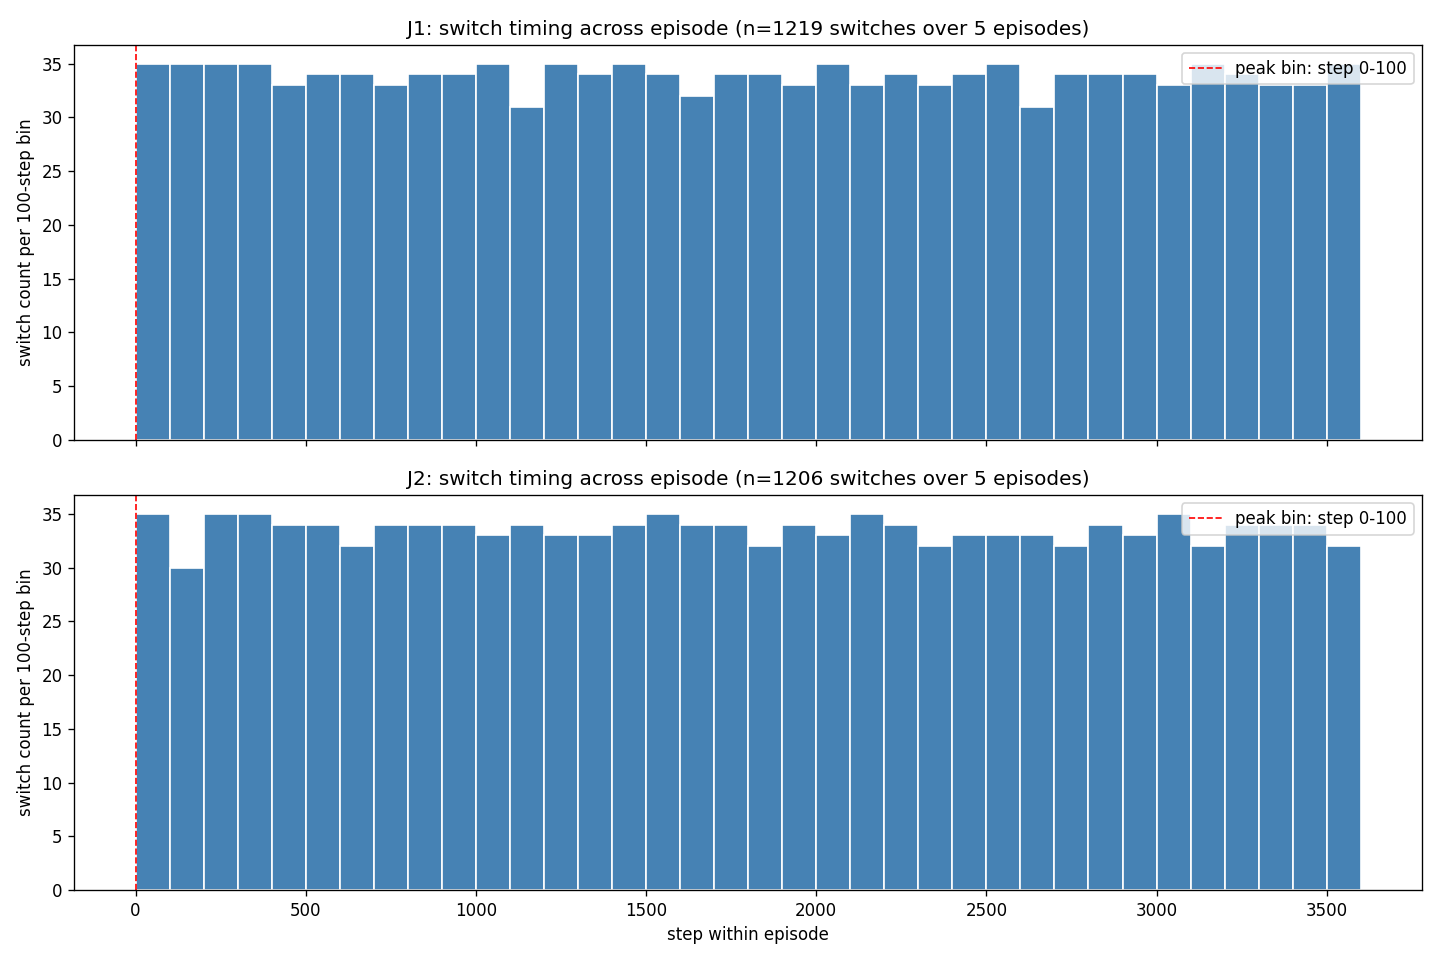
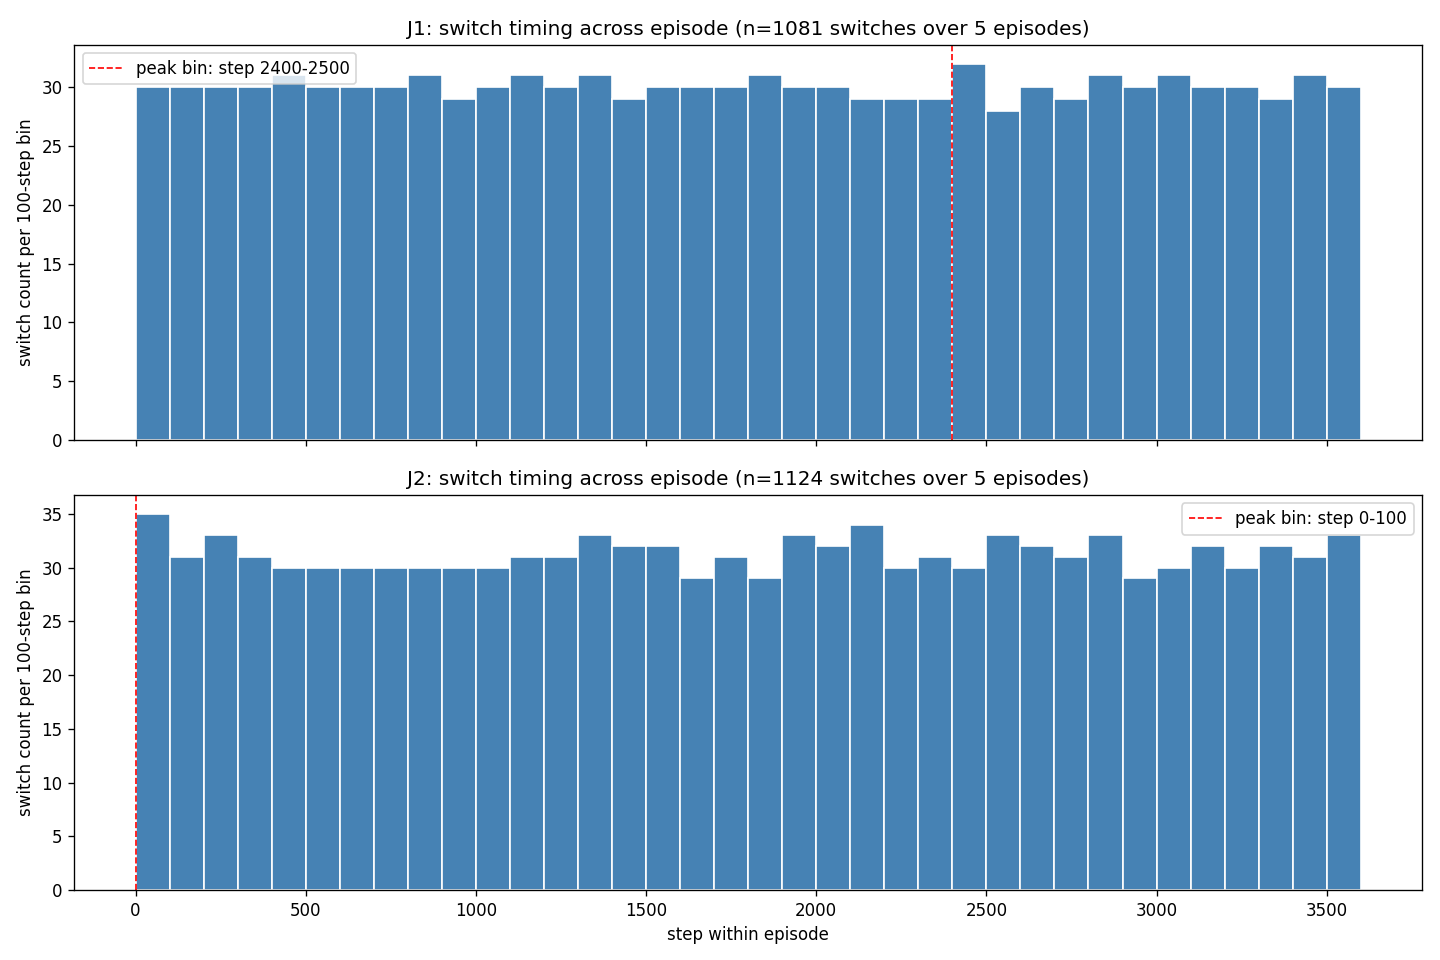
Wrong model

diff --git a/PPO_SUMO/test.py b/PPO_SUMO/test.py
@@ -8,11 +8,12 @@ from stable_baselines3.common.env_util import make_vec_env
 sys.path.append(os.path.join(os.path.dirname(__file__), "..", "common"))
 from baseline import run_offset_fixed_time
 
+sys.path.append(os.path.join(os.path.dirname(__file__), "..", "common"))
 from env import SumoTrafficEnv2J
 
 SCRIPT_DIR      = os.path.dirname(os.path.abspath(__file__))
-MODEL_PATH      = os.path.join(SCRIPT_DIR, "models", "ppo_sumo_2junction")
-NORMALIZER_PATH = os.path.join(SCRIPT_DIR, "models", "vec_normalize_sumo.pkl")
+MODEL_PATH      = os.path.join(SCRIPT_DIR, "models", "obs_imbalance_feature", "ppo_sumo_2junction")
+NORMALIZER_PATH = os.path.join(SCRIPT_DIR, "models", "obs_imbalance_feature", "vec_normalize_sumo.pkl")
 
 # --- set True when you want to record a video, False for fast headless eval ---
 RECORD = False